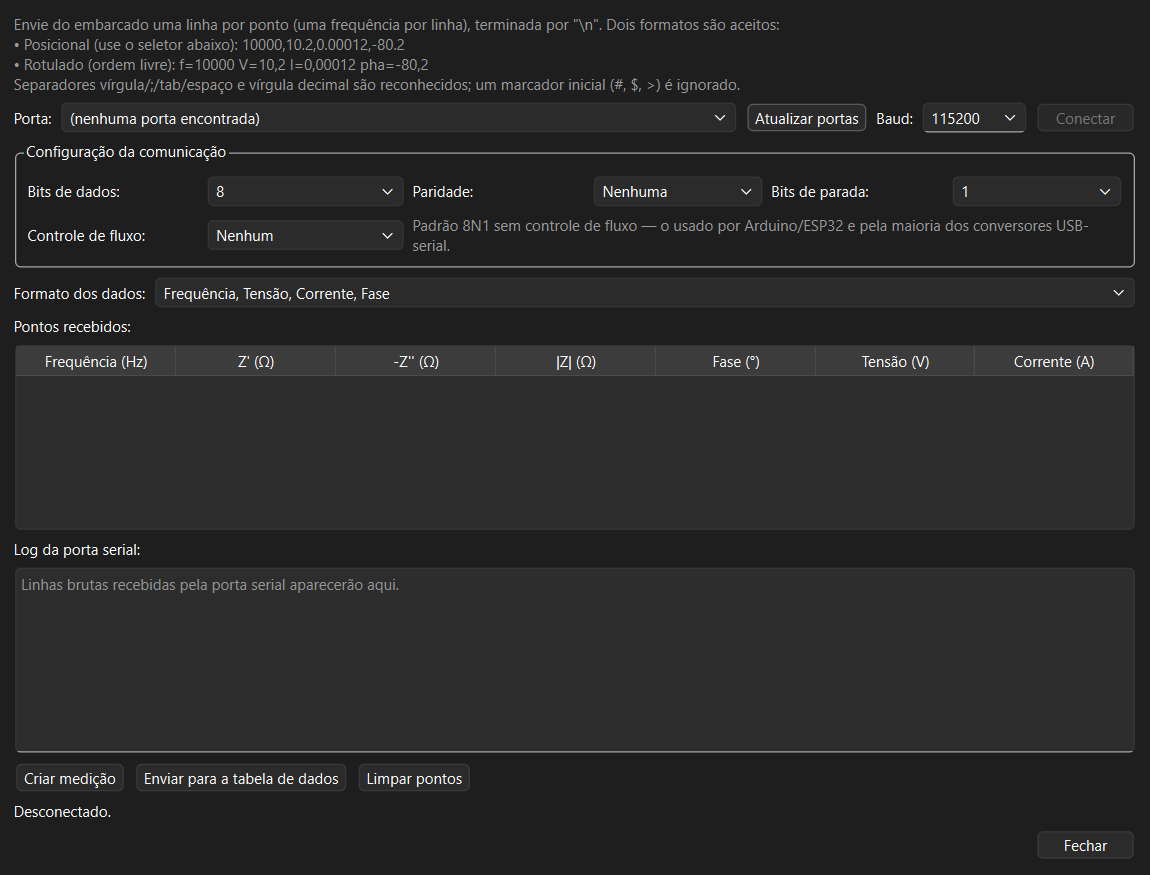
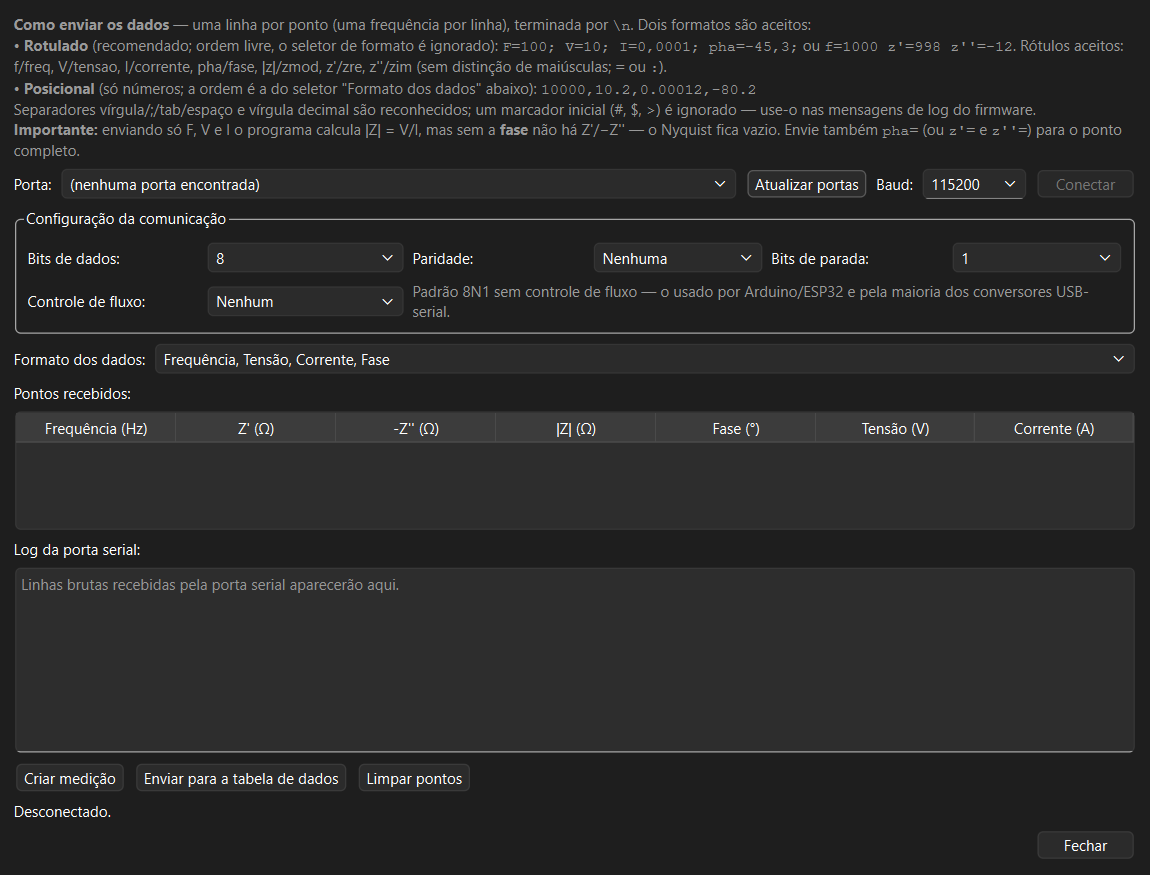
Informativo 'Como enviar os dados' na janela serial do dispositivo generico
Explica na propria janela os dois formatos de linha (rotulado, recomendado, com os rotulos aceitos; e posicional com o seletor), separadores e virgula decimal aceitos, o marcador de log, e o aviso de que so F/V/I da |Z| mas nao fase (enviar pha= ou z'/z'' para o Nyquist). Capturas do guia regeneradas.

diff --git a/gui.py b/gui.py
@@ -2555,15 +2555,27 @@ class SerialDialog(QDialog):
             )
         else:
             hint = QLabel(
-                "Envie do embarcado uma linha por ponto (uma frequência "
-                "por linha), terminada por \"\\n\". Dois formatos são "
-                "aceitos:\n"
-                "• Posicional (use o seletor abaixo): "
-                "10000,10.2,0.00012,-80.2\n"
-                "• Rotulado (ordem livre): f=10000 V=10,2 I=0,00012 "
-                "pha=-80,2\n"
+                "<b>Como enviar os dados</b> — uma linha por ponto (uma "
+                "frequência por linha), terminada por <code>\\n</code>. "
+                "Dois formatos são aceitos:<br>"
+                "• <b>Rotulado</b> (recomendado; ordem livre, o seletor "
+                "de formato é ignorado): "
+                "<code>F=100; V=10; I=0,0001; pha=-45,3;</code> ou "
+                "<code>f=1000 z'=998 z''=-12</code>. Rótulos aceitos: "
+                "f/freq, V/tensao, I/corrente, pha/fase, |z|/zmod, "
+                "z'/zre, z''/zim (sem distinção de maiúsculas; "
+                "<code>=</code> ou <code>:</code>).<br>"
+                "• <b>Posicional</b> (só números; a ordem é a do seletor "
+                "\"Formato dos dados\" abaixo): "
+                "<code>10000,10.2,0.00012,-80.2</code><br>"
                 "Separadores vírgula/;/tab/espaço e vírgula decimal são "
-                "reconhecidos; um marcador inicial (#, $, >) é ignorado.",
+                "reconhecidos; um marcador inicial (#, $, &gt;) é "
+                "ignorado — use-o nas mensagens de log do firmware.<br>"
+                "<b>Importante:</b> enviando só F, V e I o programa "
+                "calcula |Z| = V/I, mas sem a <b>fase</b> não há "
+                "Z'/−Z'' — o Nyquist fica vazio. Envie também "
+                "<code>pha=</code> (ou <code>z'=</code> e "
+                "<code>z''=</code>) para o ponto completo.",
                 self,
             )
         hint.setWordWrap(True)